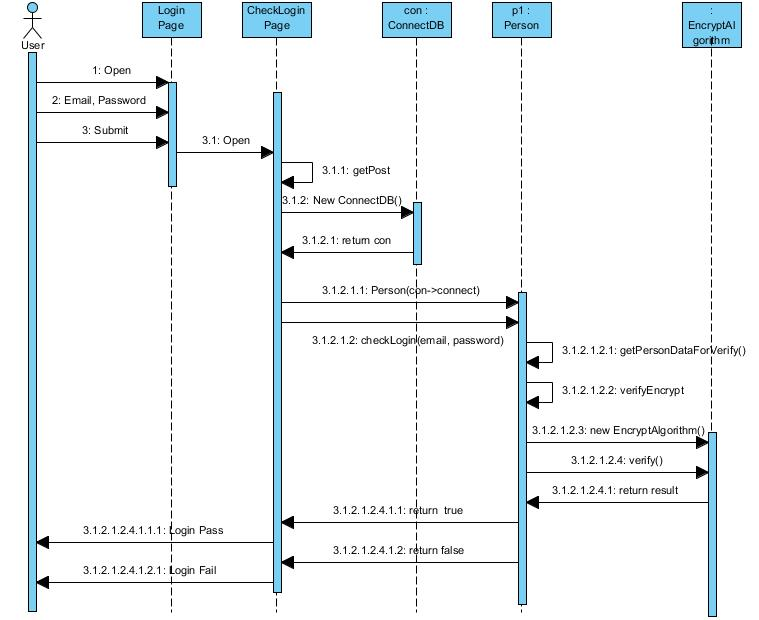
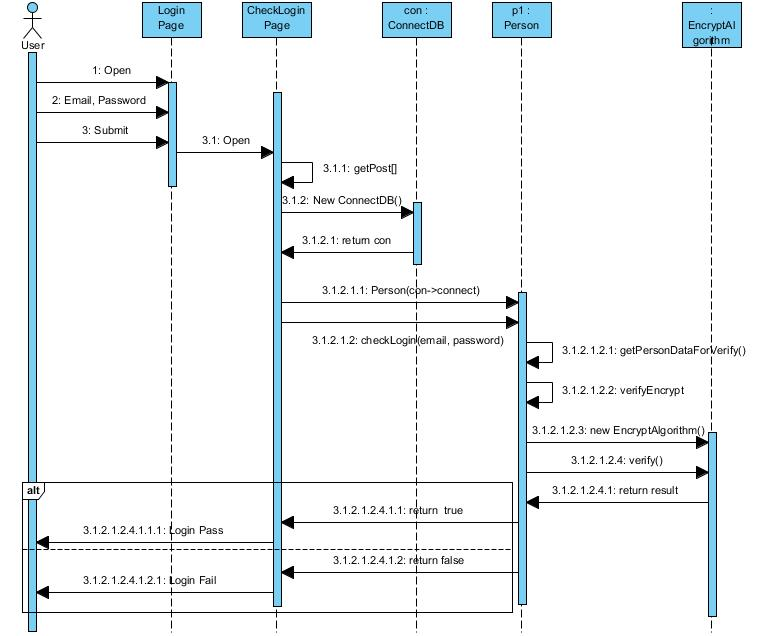
Update salt and Diagram

diff --git a/Person.php b/Person.php
@@ -13,6 +13,7 @@ class Person
     private $encrypt_passwd;   // from passwd
     private $security_type = "1";
     private $encrypt_strategy = NULL;  // (object type) consider from security_type
+    private $salt;
 
     // new object when add user (by admin) (validate data before register)
     // call before use method
@@ -44,7 +45,6 @@ class Person
     }
 
     // public for test only  // use private
-    // call by 
     // call by verifyEncrypt
     private function getPassword()
     {
@@ -64,6 +64,11 @@ class Person
     private function getSecurityType()
     {
         return $this->security_type;
+    }
+
+    private function getSalt()
+    {
+        return $this->salt;
     }
 
     // used by add account page
@@ -113,8 +118,9 @@ class Person
             'email' => $this->getUserEmail(),
             'epasswd' => $this->getEncryptPassword(),
             'st' => $this->getSecurityType(),
+            'salt' => $this->getSalt(),
         ];
-        $sql = "INSERT INTO person (user_id , user_name, user_email, encrypt_passwd, security_type) VALUES (:uid, :name, :email, :epasswd, :st)";
+        $sql = "INSERT INTO person (user_id , user_name, user_email, encrypt_passwd, security_type, user_salt) VALUES (:uid, :name, :email, :epasswd, :st, :salt)";
         try
         {
             $stmt= $this->db->prepare($sql);
@@ -169,8 +175,9 @@ class Person
             'uid' => $this->getUid(),
             'epasswd' => $this->getEncryptPassword(),
             'st' => $this->getSecurityType(),
+            'salt' => $this->getSalt(),
         ];
-        $sql = "UPDATE person SET encrypt_passwd=:epasswd, security_type=:st WHERE user_id=:uid";
+        $sql = "UPDATE person SET encrypt_passwd=:epasswd, security_type=:st, user_salt=:salt WHERE user_id=:uid";
         try
         {
             $stmt= $this->db->prepare($sql);
@@ -209,7 +216,9 @@ class Person
     // delegate method  
     private function performEncrypt()
     {
-        return $this->encrypt_strategy->encrypt($this->passwd);
+        $length = random_bytes('4');
+        $this->salt = bin2hex($length);
+        return $this->encrypt_strategy->encrypt($this->passwd,$this->salt);
     }
 
     // call by checkLogin
@@ -219,14 +228,14 @@ class Person
     private function verifyEncrypt(){
         if($this->getSecurityType() =="1"){
             $this->encrypt_strategy = new EncryptType1();
-            return $this->encrypt_strategy->verify($this->getPassword(),$this->getEncryptPassword());
+            return $this->encrypt_strategy->verify($this->getPassword(),$this->getEncryptPassword(),$this->getSalt());
         }else if($this->getSecurityType() =="2"){
             // echo "Password : ".$this->getPassword();
             $this->encrypt_strategy = new EncryptType2();
             // echo "<br>";
             // echo "Encrypt : ".$this->getEncryptPassword();
             // echo "<br>";
-            return $this->encrypt_strategy->verify($this->getPassword(),$this->getEncryptPassword());      
+            return $this->encrypt_strategy->verify($this->getPassword(),$this->getEncryptPassword(),$this->getSalt());      
         }
     }
 
@@ -253,6 +262,7 @@ class Person
             if(is_array($person) ) {
                 $this->encrypt_passwd = $person['encrypt_passwd'];
                 $this->security_type = $person['security_type'];
+                $this->salt = $person['user_salt'];
             }
 
             return true;

diff --git a/novicetest.php b/novicetest.php
@@ -1,10 +1,11 @@
 <?php
 // Novice Test
-include "Person.php";
-include "Connect.php";
+// include "Person.php";
+// include "Connect.php";
 
-$con = new connectDB();
-$p1 = new Person($con->connect());
+// $con = new connectDB();
+// $p1 = new Person($con->connect());
+
 // $p1->setDataToInsertAccount("2166","Somchai","somchai@myresearch.com","test","2");
 // show password encrypt by security type 2
 // echo "Pass : ".$p1->getEncryptPassword();
@@ -93,4 +94,25 @@ $p1 = new Person($con->connect());
 // $p1->setDataToInsertAccount("2167","Somsak","somsak@myresearch.com","test","1");
 // echo "<br>";
 // $p1->switchEncryptTypeUpdatePassword("1","2167","test");
+
+//random_bytes () function in PHP
+$length = random_bytes('4');
+ 
+//Print the result and convert by binaryhexa
+var_dump(bin2hex($length));
+
+echo "<br>";
+
+$salt = bin2hex($length);
+
+echo "<br>";
+
+echo "Salt : ".$salt;
+
+$pass = md5("lucky");
+echo "<br>";
+echo "Pass md5 : ".$pass;
+echo "<br>";
+$pass2 = md5("lucky".$salt);
+echo "Pass md5+salt :".$pass2;
 ?>

diff --git a/EncryptType1.php b/EncryptType1.php
@@ -2,14 +2,14 @@
 
 class EncryptType1 implements EncryptAlgorithm
 {
-    public function encrypt($pwd)
+    public function encrypt($pwd,$salt)
     {
-        $pwd_encypt = password_hash($pwd, PASSWORD_DEFAULT);
+        $pwd_encypt = password_hash($pwd.$salt, PASSWORD_DEFAULT);
         return $pwd_encypt;
     }
-    public function verify($pwd, $epwd)
+    public function verify($pwd,$epwd,$salt)
     {
-        if (password_verify($pwd, $epwd)){
+        if (password_verify($pwd.$salt,$epwd)){
             return true;
          } else {
             return false;

diff --git a/EncryptType2.php b/EncryptType2.php
@@ -2,14 +2,14 @@
 
 class EncryptType2 implements EncryptAlgorithm
 {
-    public function encrypt($pwd)
+    public function encrypt($pwd,$salt)
     {
-        $pwd_encypt = md5($pwd);
+        $pwd_encypt = md5($pwd.$salt);
         return $pwd_encypt;
     }
-    public function verify($pwd, $epwd)
+    public function verify($pwd,$epwd,$salt)
     {
-        if (md5($pwd) == $epwd){
+        if (md5($pwd.$salt) == $epwd){
             return true;
          } else {
             return false;

diff --git a/Connect.php b/Connect.php
@@ -6,7 +6,7 @@ class ConnectDB
         $host = 'localhost';
         $user = 'root';
         $cpasswd = '';
-        $schema = 'organization';
+        $schema = 'orgsalt';
         $pdo = NULL;
         $dsn = 'mysql:host=' . $host . ';dbname=' . $schema;
         try

diff --git a/EncryptAlgorithm.php b/EncryptAlgorithm.php
@@ -1,8 +1,8 @@
 <?php
 interface EncryptAlgorithm
 {
-    public function encrypt($pwd);
-    public function verify($pwd, $epwd);
+    public function encrypt($pwd,$salt);
+    public function verify($pwd,$epwd,$salt);
 }
 
 ?>
